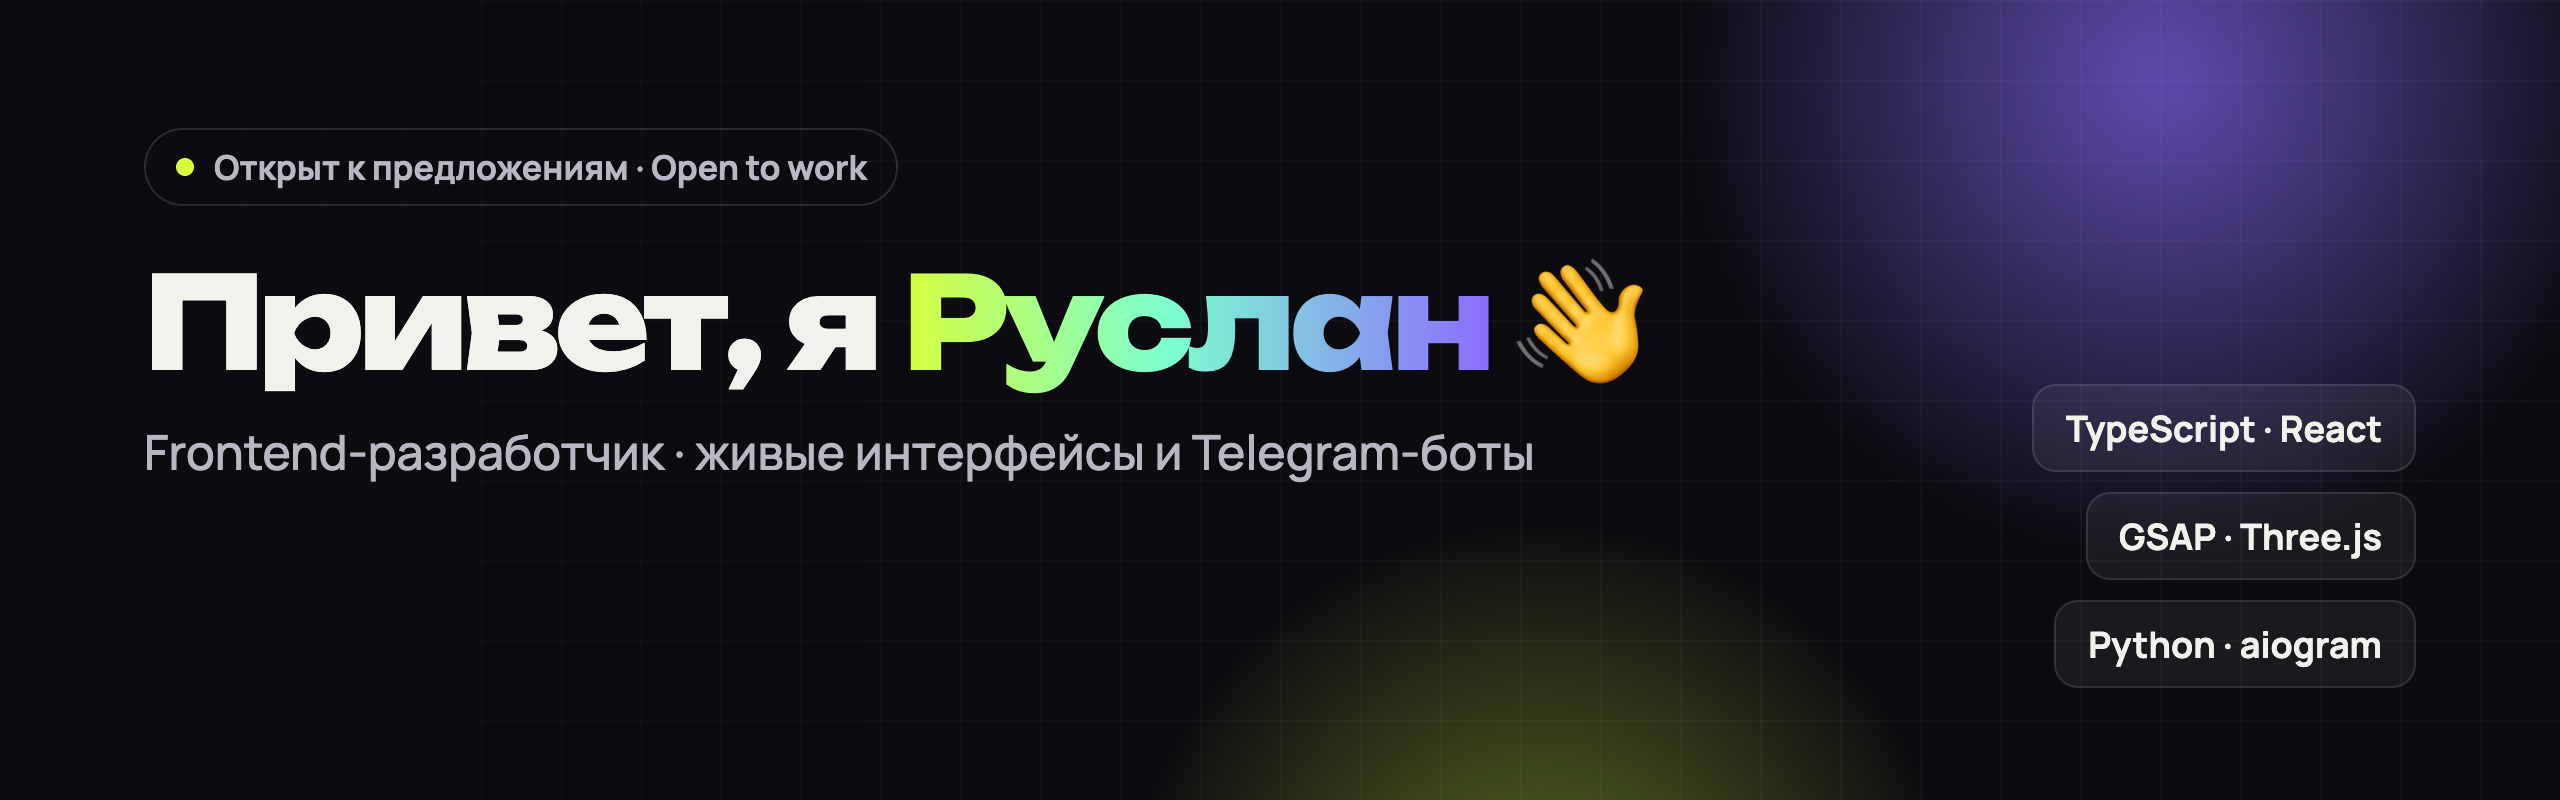
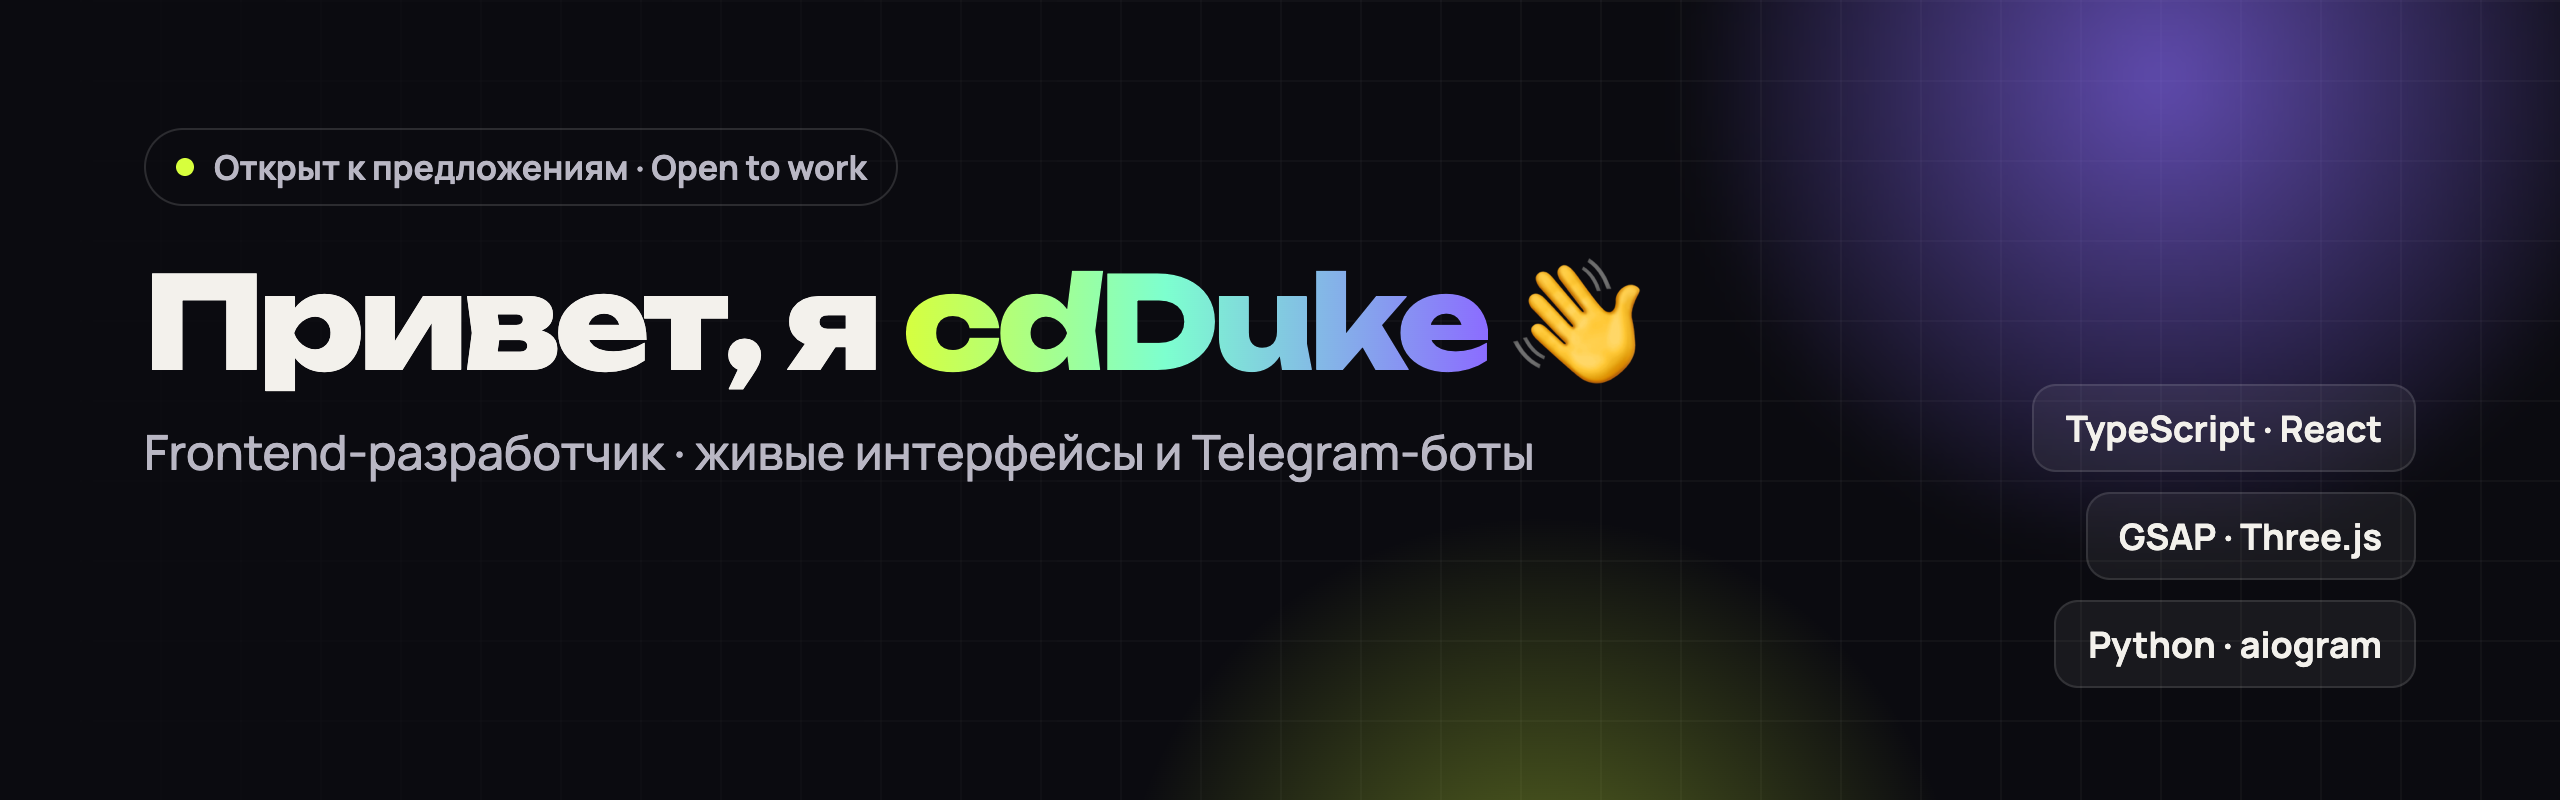
Use cdDuke as display name

Changed region(s): [[0.3438, 0.3125, 0.6562, 0.5]]

diff --git a/README.md b/README.md
@@ -1,4 +1,4 @@
-<img src="banner.png" alt="Привет, я Руслан" width="100%">
+<img src="banner.png" alt="Привет, я cdDuke" width="100%">
 
 <div align="center">
 
